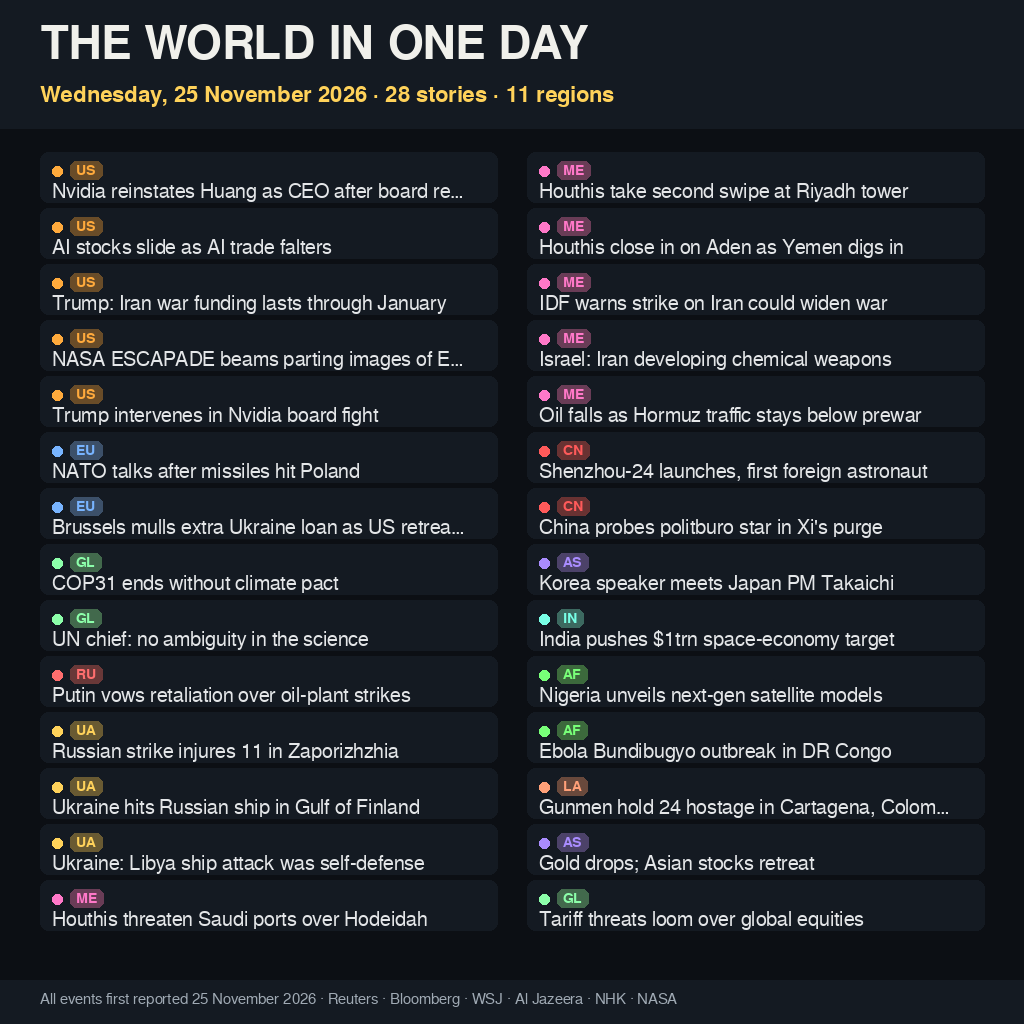
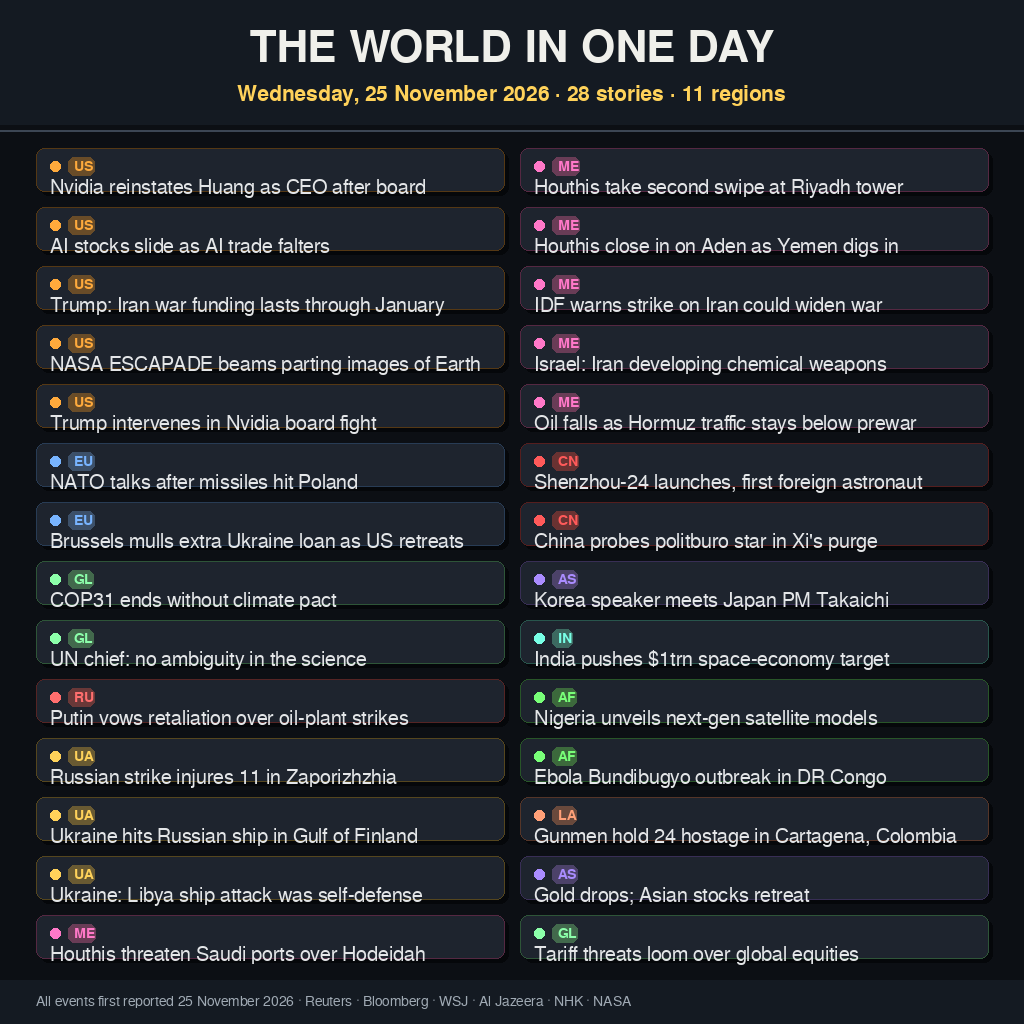
main.py v3: auto-shrink title, wrapped headlines, drop shadows, card spacing

diff --git a/main.py b/main.py
@@ -46,50 +46,139 @@ FONT_REG = "/usr/share/fonts/truetype/freefont/FreeSans.ttf"
 
 
 def fit(draw, text, font, max_width):
+    """Return a single line that never exceeds max_width (ellipsis fallback)."""
     line = text
     while draw.textlength(line + "…", font=font) > max_width and len(line) > 12:
         line = line[:-1].rstrip()
     return line + "…" if line != text else line
 
 
+def wrap(draw, text, font, max_width):
+    """Split text into up to 3 lines that each fit max_width.
+
+    Greedy word wrap; falls back to hard character trim for a single
+    over-long word so no line can ever overflow its box.
+    """
+    lines = []
+    for word in text.split():
+        candidate = (lines[-1] + " " + word) if lines else word
+        if draw.textlength(candidate, font=font) <= max_width:
+            if not lines:
+                lines.append(candidate)
+            else:
+                lines[-1] = candidate
+            continue
+        if not lines or len(lines) == 3:
+            # Hard trim: only reached for a very long single word.
+            line = word
+            while draw.textlength(line + "…", font=font) > max_width and len(line) > 4:
+                line = line[:-1].rstrip()
+            lines.append(line + "…")
+        else:
+            lines.append(word)
+    return lines
+
+
 def draw_image():
+    """Compose the whole front page and return the finished image."""
     img = Image.new("RGB", SIZE, (12, 15, 20))
     d = ImageDraw.Draw(img)
-    f_head = ImageFont.truetype(FONT_BOLD, 46)
-    f_sub = ImageFont.truetype(FONT_BOLD, 22)
+
+    # -- Fonts ------------------------------------------------------------
+    f_head = ImageFont.truetype(FONT_BOLD, 44)
+    f_sub = ImageFont.truetype(FONT_BOLD, 21)
     f_story = ImageFont.truetype(FONT_REG, 20)
     f_tag = ImageFont.truetype(FONT_BOLD, 14)
-    f_foot = ImageFont.truetype(FONT_REG, 15)
+    f_foot = ImageFont.truetype(FONT_REG, 14)
 
-    d.rectangle([0, 0, SIZE[0], 128], fill=(20, 26, 34))
-    d.text((40, 22), "THE WORLD IN ONE DAY", font=f_head, fill=(240, 240, 235))
+    # -- Header: banner, title, subtitle ----------------------------------
+    header_h = 124
+    d.rectangle([0, 0, SIZE[0], header_h], fill=(20, 26, 34))
+    title = "THE WORLD IN ONE DAY"
     regions = len(set(s[1] for s in STORIES))
-    d.text((40, 84), "Wednesday, 25 November 2026 · %d stories · %d regions" % (len(STORIES), regions), font=f_sub, fill=(255, 210, 90))
+    sub = "Wednesday, 25 November 2026 · %d stories · %d regions" % (
+        len(STORIES), regions)
 
-    body_top = 152
+    # Shrink the title until it fits the padded width, so it is never cut.
+    title_pad = 80
+    size = 44
+    while d.textlength(title, font=ImageFont.truetype(FONT_BOLD, size)) > SIZE[0] - title_pad and size > 18:
+        size -= 2
+    f_title = ImageFont.truetype(FONT_BOLD, size)
+    # Center the title block vertically: title on top, subtitle under it.
+    title_w = d.textlength(title, font=f_title)
+    d.text(((SIZE[0] - title_w) // 2, 26), title, font=f_title, fill=(240, 240, 235))
+    sub_w = d.textlength(sub, font=f_sub)
+    d.text(((SIZE[0] - sub_w) // 2, 84), sub, font=f_sub, fill=(255, 210, 90))
+    # Thin separator line between header and body.
+    d.line([0, header_h + 6, SIZE[0], header_h + 6], fill=(60, 70, 84), width=2)
+
+    # -- Body: two columns of story cards ---------------------------------
+    body_top = 148
+    footer_h = 44
+    body_bottom = SIZE[1] - footer_h - 16
+    margin = 36
+    gap = 16            # tighter gap between cards
+    card_gap = 10       # vertical breathing room between stacked cards
+    col_w = (SIZE[0] - margin * 2 - gap) // 2
+    xs = [margin, margin + col_w + gap]
+
+    # Fill columns top-to-bottom, balanced: left column gets the extra row.
     rows = (len(STORIES) + 1) // 2
-    row_h = (978 - body_top - 40) // rows
-    col_w = (SIZE[0] - 40 * 2 - 30) // 2
-    xs = [40, 40 + col_w + 30]
+    # Reserve one card_gap per gap between cards (rows - 1 gaps).
+    row_h = (body_bottom - body_top - (rows - 1) * card_gap) // rows
+    text_x = 14           # text indent inside a card
+    tag_chip_y = 9        # tag chip offset from card top
+    text_top = 30         # story text offset from card top
+    line_h = 24           # story text line height (fits wrapped lines)
+
     for i, (txt, tag, color) in enumerate(STORIES):
-        col = i // rows
-        row = i % rows
+        col = 0 if i < rows else 1
+        row = i if i < rows else i - rows
         x = xs[col]
-        yy = body_top + row * row_h
-        d.rounded_rectangle([x, yy, x + col_w, yy + row_h - 6], radius=8, fill=(20, 26, 34))
-        d.ellipse([x + 12, yy + 14, x + 22, yy + 24], fill=color)
+        yy = body_top + row * (row_h + card_gap)
+        # Card background: lighter surface + subtle region-tinted border
+        # for higher contrast against the dark page background.
+        card_fill = (30, 36, 46)
+        card_h = row_h - 6
+        # Soft drop shadow: dark rect offset a few px down/right, drawn
+        # before the card so it peeks out only at the bottom-right edge.
+        d.rounded_rectangle(
+            [x + 4, yy + 4, x + col_w + 4, yy + card_h + 4], radius=8,
+            fill=(5, 7, 10))
+        d.rounded_rectangle(
+            [x, yy, x + col_w, yy + card_h], radius=8, fill=card_fill,
+            outline=tuple(c // 3 for c in color), width=1)
+        # Region colour dot.
+        d.ellipse([x + text_x, yy + 13, x + text_x + 10, yy + 23], fill=color)
+        # Region tag chip (tinted background + coloured text).
         tw = d.textlength(tag, font=f_tag)
         chip = tuple(min(255, c // 3 + 20) for c in color)
-        d.rounded_rectangle([x + 30, yy + 9, x + 30 + tw + 12, yy + 27], radius=6, fill=chip)
-        d.text((x + 36, yy + 11), tag, font=f_tag, fill=color)
-        d.text((x + 12, yy + 30), fit(d, txt, f_story, col_w - 44), font=f_story, fill=(228, 230, 232))
+        d.rounded_rectangle(
+            [x + text_x + 18, yy + tag_chip_y, x + text_x + 24 + tw, yy + tag_chip_y + 18],
+            radius=6, fill=chip)
+        d.text((x + text_x + 24, yy + tag_chip_y + 2), tag, font=f_tag, fill=color)
+        # Story headline: wrap to fit the card instead of truncating.
+        max_w = col_w - text_x - 18
+        lines = wrap(d, txt, f_story, max_w)
+        for j, line in enumerate(lines):
+            ly = yy + text_top + j * line_h
+            if ly > yy + row_h - 6:  # safety: never draw outside card
+                break
+            d.text((x + text_x, ly), line, font=f_story, fill=(228, 230, 232))
 
-    d.rectangle([0, SIZE[1] - 44, SIZE[0], SIZE[1]], fill=(20, 26, 34))
-    d.text((40, SIZE[1] - 32), "All events first reported 25 November 2026 · Reuters · Bloomberg · WSJ · Al Jazeera · NHK · NASA", font=f_foot, fill=(160, 170, 180))
+    # -- Footer ------------------------------------------------------------
+    d.rectangle([0, SIZE[1] - footer_h, SIZE[0], SIZE[1]], fill=(20, 26, 34))
+    foot = "All events first reported 25 November 2026 · Reuters · Bloomberg · WSJ · Al Jazeera · NHK · NASA"
+    # Truncate the footer only if it would overflow the padded width.
+    d.text((margin, SIZE[1] - 30),
+           fit(d, foot, f_foot, SIZE[0] - margin * 2),
+           font=f_foot, fill=(160, 170, 180))
     return img
 
 
 def main():
+    # Resolve the output directory (default /output, override via env).
     out_dir = os.environ.get("MAKEFUN_OUTPUT_DIR", "/output")
     os.makedirs(out_dir, mode=0o755, exist_ok=True)
     img = draw_image()
@@ -97,6 +186,7 @@ def main():
     img.save(dst)
     os.chmod(dst, 0o644)
     print("entry: wrote %s" % dst)
+    return 0
 
 
 if __name__ == "__main__":
